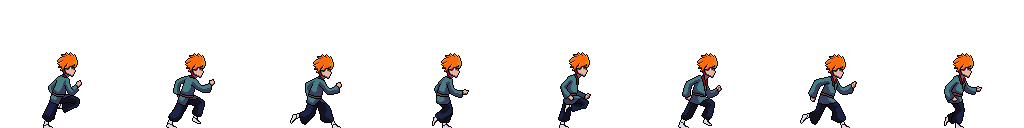
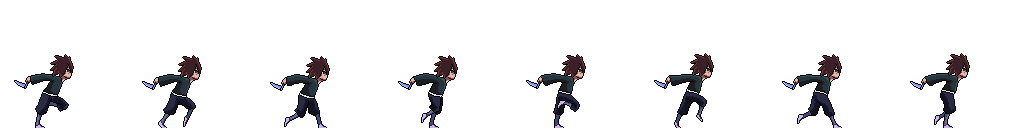
Removed animation related stuff

diff --git a/game/Game.cpp b/game/Game.cpp
@@ -11,7 +11,6 @@
 #include <SDL3/SDL_timer.h>
 #include <cstdint>
 #include <memory>
-#include <vector>
 
 using namespace engine::core;
 using namespace engine::components;
@@ -24,40 +23,37 @@ bool Game::init() {
   bool rendererSucess = mRenderer.init(mWindow, GameConfig::cLogicalWidth,
                                        GameConfig::cLogicalHeight);
 
-  mInput.bindKey(SDLK_H, Action::MoveLeft);
-  mInput.bindKey(SDLK_L, Action::MoveRight);
-  mInput.bindKey(SDLK_J, Action::MoveDown);
-  mInput.bindKey(SDLK_K, Action::MoveUp);
+  mInput.bindKey(SDLK_H, Action::WalkLeft);
+  mInput.bindKey(SDLK_L, Action::WalkRight);
+  mInput.bindKey(SDLK_J, Action::WalkDown);
+  mInput.bindKey(SDLK_K, Action::WalkUp);
 
-  mInput.bindAction(Action::MoveLeft, std::make_unique<MoveLeftCommand>(
+  mInput.bindAction(Action::WalkLeft, std::make_unique<WalkingLeftCommand>(
                                           GameConfig::cPlayerSpeed));
-  mInput.bindAction(Action::MoveRight, std::make_unique<MoveRightCommand>(
+  mInput.bindAction(Action::WalkRight, std::make_unique<WalkingRightCommand>(
                                            GameConfig::cPlayerSpeed));
-  mInput.bindAction(Action::MoveDown, std::make_unique<MoveDownCommand>(
+  mInput.bindAction(Action::WalkDown, std::make_unique<WalkingDownCommand>(
                                           GameConfig::cPlayerSpeed));
-  mInput.bindAction(Action::MoveUp,
-                    std::make_unique<MoveUpCommand>(GameConfig::cPlayerSpeed));
+  mInput.bindAction(Action::WalkUp, std::make_unique<WalkingUpCommand>(
+                                        GameConfig::cPlayerSpeed));
 
   mPlayer = mRegistry.create();
-  auto sheet = std::make_shared<engine::core::Texture>();
-  bool loadSuccess = sheet->loadFromFile(mRenderer, "assets/Run.png");
+  auto walkingSheet = std::make_shared<engine::core::Texture>();
+  auto runningSheet = std::make_shared<engine::core::Texture>();
+  bool loadRunning = runningSheet->loadFromFile(mRenderer, "assets/Run.png");
+  bool loadWalking = walkingSheet->loadFromFile(mRenderer, "assets/Walk.png");
+  bool loadSuccess = loadRunning && loadWalking;
 
   mRegistry.emplace<Transform>(mPlayer, 500.f, 500.f, GameConfig::cPlayerSize,
                                GameConfig::cPlayerSize, 0.f);
   const int numberOfSprites = 8;
   const float spriteWidth = 1024.f / numberOfSprites;
   const float spriteHeight = 128.f;
+
+  // regsiter walking
   mRegistry.emplace<Renderable>(
-      mPlayer, sheet, SDL_FRect{0.0f, 0.0f, spriteWidth, spriteHeight});
+      mPlayer, walkingSheet, SDL_FRect{0.0f, 0.0f, spriteWidth, spriteHeight});
   mRegistry.emplace<Velocity>(mPlayer, 0, 0);
-
-  std::vector<SDL_FRect> frames;
-
-  for (int i = 0; i < numberOfSprites; i++) {
-    frames.push_back(
-        SDL_FRect{i * spriteWidth, 0.0f, spriteWidth, spriteHeight});
-  }
-  mRegistry.emplace<Animation>(mPlayer, frames, 0.0f, 0.1f, 0.0f, true);
 
   return windowSuccess && rendererSucess && loadSuccess;
 }
@@ -82,7 +78,6 @@ void Game::processInput() {
 void Game::update(double dt) {
   mRenderer.clear({0, 0, 0, 255});
   movementSystem(mRegistry, dt);
-  animationSystem(mRegistry, dt);
   renderSystem(mRegistry, mRenderer);
 }
 

diff --git a/engine/include/engine/core/Commands.hpp b/engine/include/engine/core/Commands.hpp
@@ -26,29 +26,29 @@ protected:
   float mSpeed;
 };
 
-class MoveUpCommand : public MoveCommand {
+class WalkingUpCommand : public MoveCommand {
 public:
-  MoveUpCommand(float speed) : MoveCommand(speed) {}
+  WalkingUpCommand(float speed) : MoveCommand(speed) {}
   virtual void execute(entt::registry &registry, entt::entity e) override;
-  ~MoveUpCommand() override = default;
+  ~WalkingUpCommand() override = default;
 };
-class MoveDownCommand : public MoveCommand {
+class WalkingDownCommand : public MoveCommand {
 public:
-  MoveDownCommand(float speed) : MoveCommand(speed) {}
+  WalkingDownCommand(float speed) : MoveCommand(speed) {}
   virtual void execute(entt::registry &registry, entt::entity e) override;
-  ~MoveDownCommand() override = default;
+  ~WalkingDownCommand() override = default;
 };
-class MoveRightCommand : public MoveCommand {
+class WalkingRightCommand : public MoveCommand {
 public:
-  MoveRightCommand(float speed) : MoveCommand(speed) {}
+  WalkingRightCommand(float speed) : MoveCommand(speed) {}
   virtual void execute(entt::registry &registry, entt::entity e) override;
-  ~MoveRightCommand() override = default;
+  ~WalkingRightCommand() override = default;
 };
-class MoveLeftCommand : public MoveCommand {
+class WalkingLeftCommand : public MoveCommand {
 public:
-  MoveLeftCommand(float speed) : MoveCommand(speed) {}
+  WalkingLeftCommand(float speed) : MoveCommand(speed) {}
   virtual void execute(entt::registry &registry, entt::entity e) override;
-  ~MoveLeftCommand() override = default;
+  ~WalkingLeftCommand() override = default;
 };
 
 } // namespace engine::core

diff --git a/engine/src/core/Commands.cpp b/engine/src/core/Commands.cpp
@@ -6,28 +6,31 @@
 using namespace engine::core;
 using namespace engine::components;
 
-void MoveUpCommand::execute(entt::registry &registry, entt::entity entity) {
+void WalkingUpCommand::execute(entt::registry &registry, entt::entity entity) {
   if (registry.any_of<Velocity>(entity)) {
     auto &v = registry.get<Velocity>(entity);
+    v.dx = 0;
     v.dy = -mSpeed;
-    v.dx = 0;
   }
 }
-void MoveDownCommand::execute(entt::registry &registry, entt::entity entity) {
+void WalkingDownCommand::execute(entt::registry &registry,
+                                 entt::entity entity) {
   if (registry.any_of<Velocity>(entity)) {
     auto &v = registry.get<Velocity>(entity);
-    v.dy = mSpeed;
     v.dx = 0;
+    v.dy = mSpeed;
   }
 }
-void MoveRightCommand::execute(entt::registry &registry, entt::entity entity) {
+void WalkingRightCommand::execute(entt::registry &registry,
+                                  entt::entity entity) {
   if (registry.any_of<Velocity>(entity)) {
     auto &v = registry.get<Velocity>(entity);
     v.dx = mSpeed;
     v.dy = 0;
   }
 }
-void MoveLeftCommand::execute(entt::registry &registry, entt::entity entity) {
+void WalkingLeftCommand::execute(entt::registry &registry,
+                                 entt::entity entity) {
   if (registry.any_of<Velocity>(entity)) {
     auto &v = registry.get<Velocity>(entity);
     v.dx = -mSpeed;

diff --git a/engine/include/engine/components/Components.hpp b/engine/include/engine/components/Components.hpp
@@ -2,9 +2,7 @@
 
 #include "engine/core/Texture.hpp"
 #include <SDL3/SDL_rect.h>
-#include <cstddef>
 #include <memory>
-#include <vector>
 namespace engine::components {
 
 struct Transform {
@@ -22,11 +20,4 @@ struct Renderable {
   SDL_FRect mSrcRect;
 };
 
-struct Animation {
-  std::vector<SDL_FRect> frames;
-  std::size_t currentFrame{0};
-  float frameDuration{0.1f};
-  float timer{0.0f};
-  bool loop{true};
-};
 } // namespace engine::components

diff --git a/engine/include/engine/core/Action.hpp b/engine/include/engine/core/Action.hpp
@@ -2,10 +2,10 @@
 
 namespace engine::core {
 enum class Action {
-  MoveUp,
-  MoveDown,
-  MoveRight,
-  MoveLeft,
+  WalkUp,
+  WalkDown,
+  WalkRight,
+  WalkLeft,
   Fire,
   Destroyed,
   Quit
